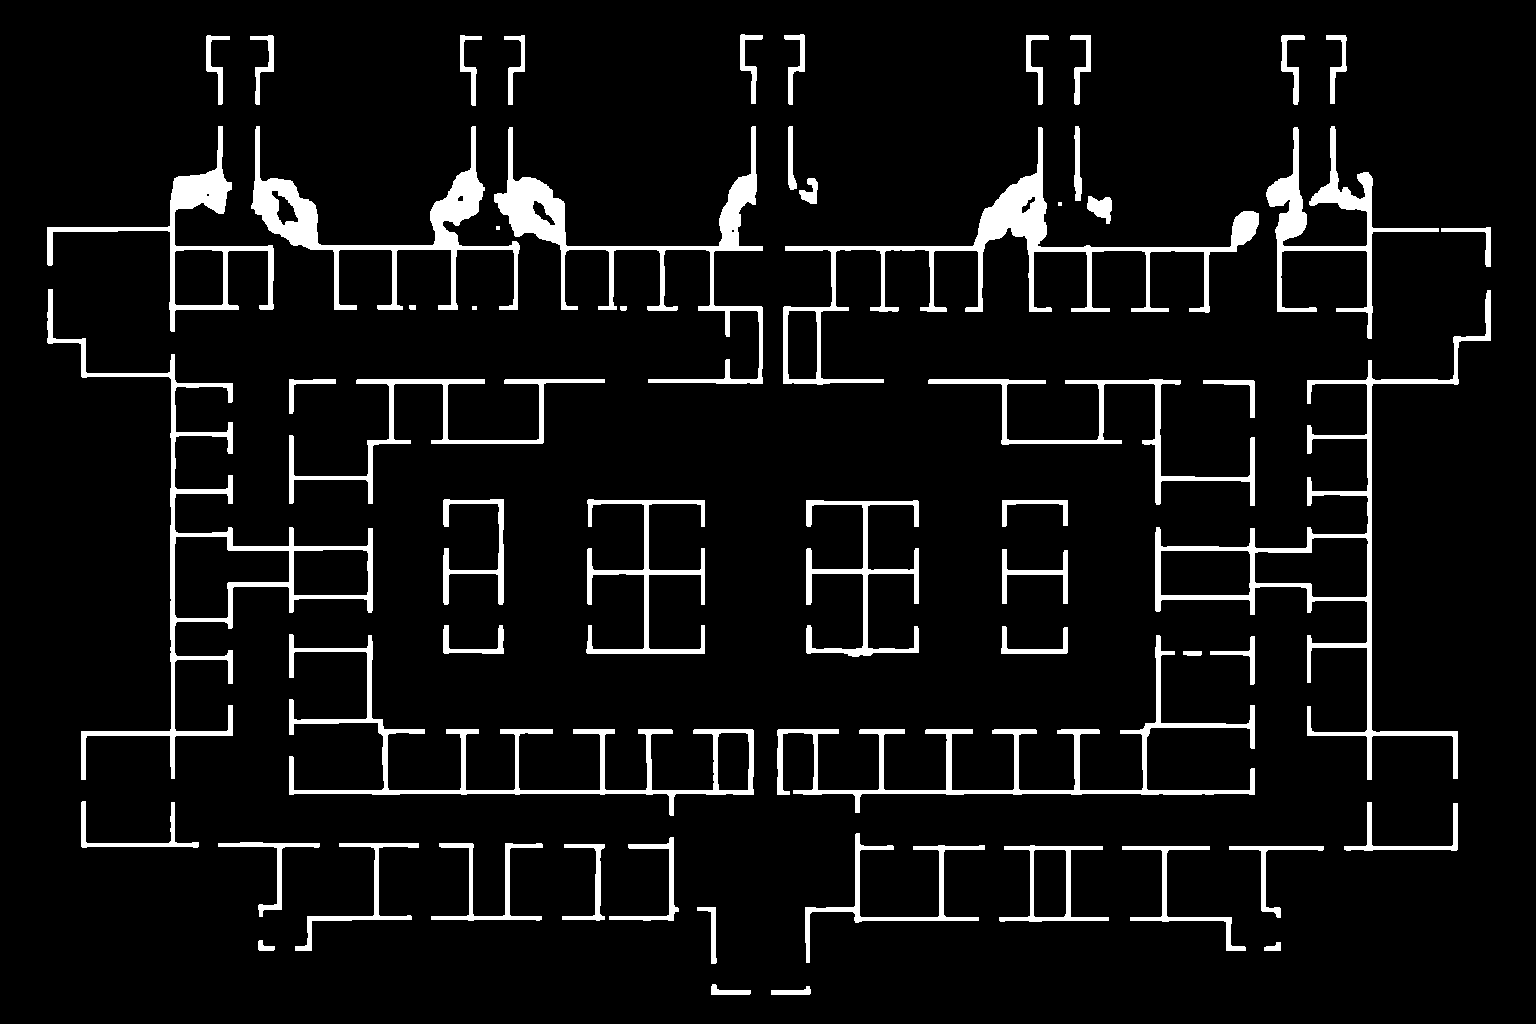
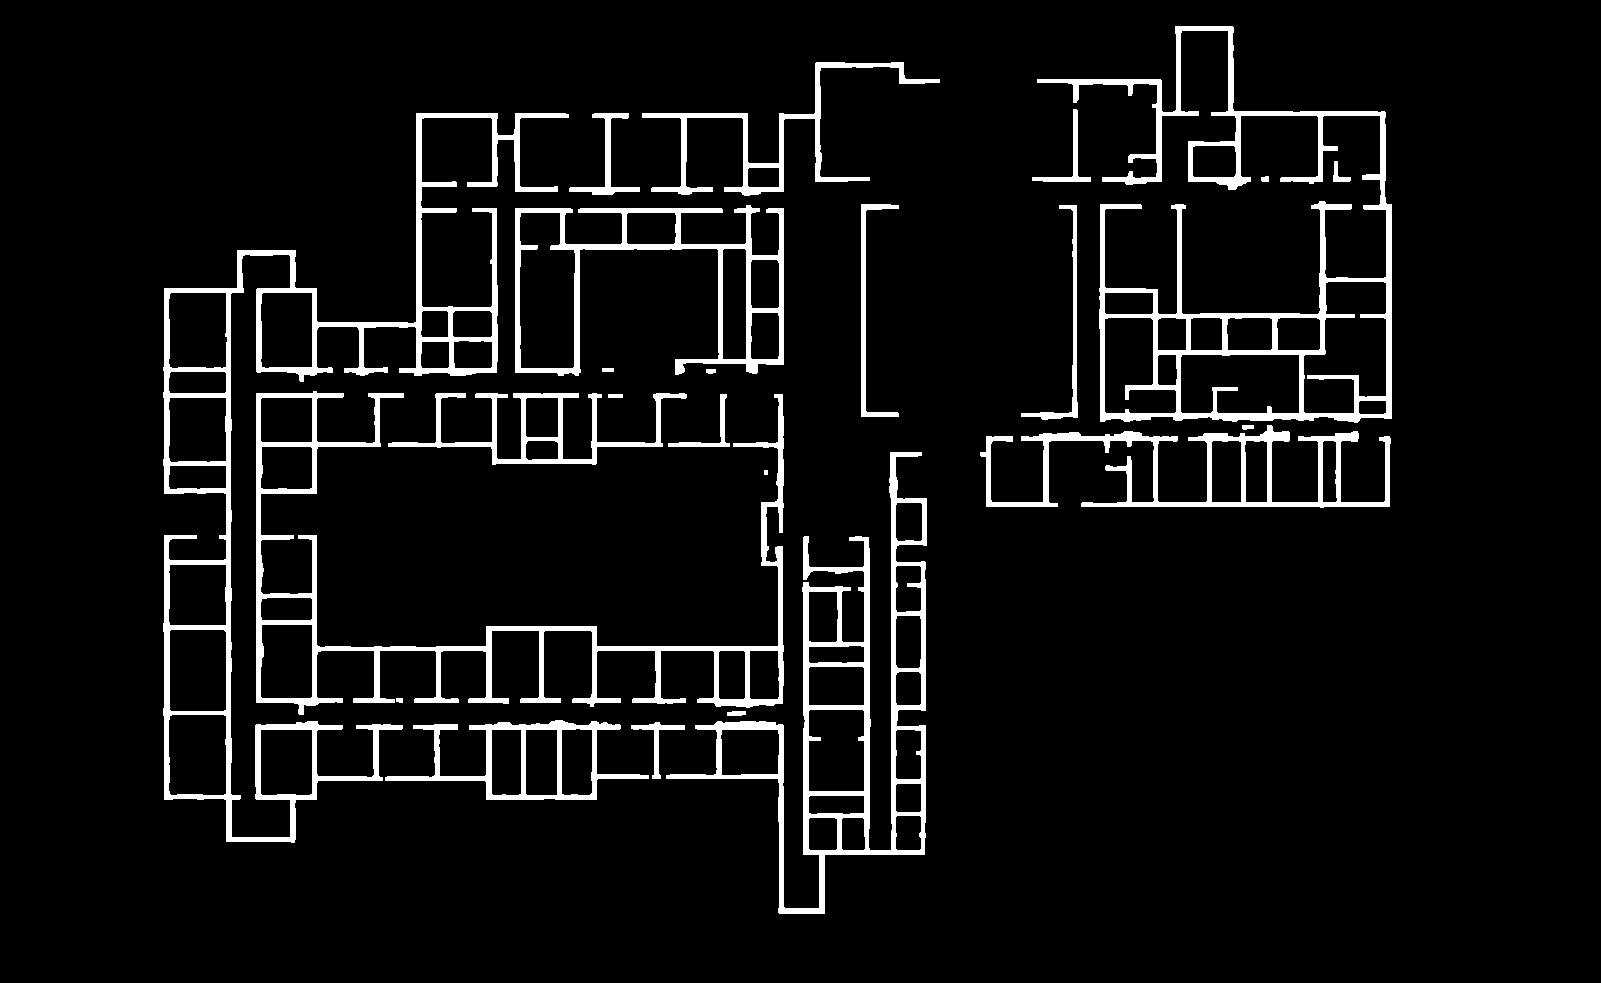
test set of images

diff --git a/README.md b/README.md
@@ -1,9 +1,11 @@
-# T.R.A.G.I.C.
-### Tactical Risk Assessment & Grid-based Intelligent Crowd Simulation
+# T.R.A.G.I.C. — Crowd Evacuation Simulation & Floorplan Analysis
+### Tactical Risk Assessment & Grid-based Intelligent Crowd Simulation | Social Force Model · RVO · Continuum · Cellular Automata
 
 > Feed it a floorplan. It tells you where people die.
 
 ![Hero — TRAGIC launcher showing a completed SFM simulation with agent trails, bottleneck markers, and a score overlay](docs/hero_launcher.png)
+
+**TRAGIC** is an open-source **crowd evacuation simulation** tool that parses architectural **floorplan images** using a trained **U-Net** segmentation model, then runs **pedestrian dynamics simulations** using four algorithms — Social Force Model (SFM), Reciprocal Velocity Obstacles (RVO), Continuum Crowds, and Cellular Automata (CA). It detects **evacuation bottlenecks**, scores **emergency exit placement**, and models **fire/hazard spread** — all from a single floorplan image with no manual wall tracing.
 
 ---
 
@@ -29,7 +31,6 @@ T.R.A.G.I.C/
 ├── continuum_evacuation_path.py # Continuum Crowds (Treuille 2006)
 ├── continuum_evacuation_sim.py  # Interactive continuum viewer (This is not connected to the code, kinda unnecessary. lol)
 ├── CA_evacuation.py             # Cellular Automata
-├── test_images/                 # curated images where you can get the ebst results
 └── output/                      # Everything written here at runtime
     ├── sfm_agent_paths.png
     ├── rvo_agent_paths.png
@@ -136,10 +137,6 @@ CA doesn't have a velocity field to push agents around with, so its version of f
 
 All four models take the same inputs and produce the same output structure: scored image with agent trails, exit utilization percentages, and bottleneck markers.
 
-A **Compare All Models** button runs all four sequentially on the same config and shows a side-by-side score table. Each model's output image is kept in the viewer — use the **< >** buttons in the output panel to browse between runs without losing earlier results. The **View Report** button always opens the report for whichever image you're currently looking at.
-
-To resume a previous session, use **Load Existing Mask** in View 1 — it now accepts a zone config JSON directly and jumps straight to the Zone Editor with everything loaded.
-
 | Model | Core mechanic | Best for |
 |---|---|---|
 | SFM | Attractive/repulsive force fields | General-purpose |
@@ -174,6 +171,12 @@ Either (a) exit markers landed on a wall pixel — place them clearly inside a c
 
 **Hazard placed but nothing seems to route around it**
 Check the hazard didn't land in a spot where the carved-out radius swallows the only corridor to an exit — if there's no walkable path left, agents just sit at max BFS cost and never evacuate. Either move the hazard or widen the layout.
+
+---
+
+## Keywords
+
+`crowd-evacuation-simulation` `floorplan-parsing` `pedestrian-dynamics` `social-force-model` `building-safety` `emergency-evacuation` `U-Net-segmentation` `fire-hazard-simulation` `occupancy-analysis` `egress-simulation` `RVO` `cellular-automata` `continuum-crowds` `PyQt6` `deep-learning` `computer-vision` `CubiCasa5K`
 
 ---
 
